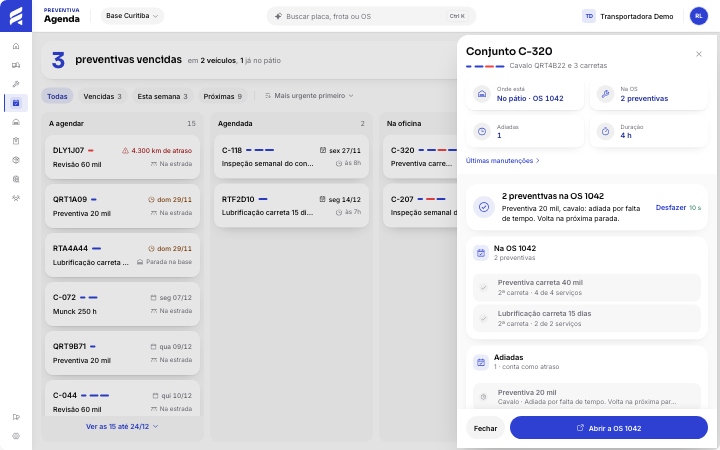
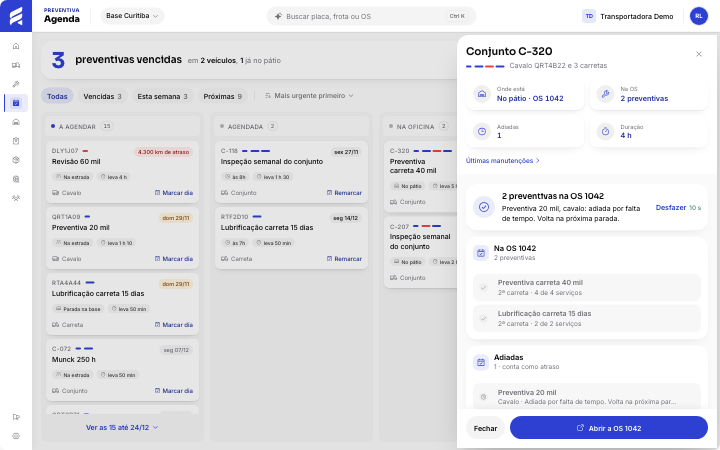
docs(truck): phone blue top gets the dot and composition texture; frame labels match the view

diff --git a/static/mockups/truck/preventiva-agenda/index.html b/static/mockups/truck/preventiva-agenda/index.html
@@ -33,7 +33,7 @@
     <div class="states sg" data-for="phs"><div class="sgr"><span class="sgl">No celular</span><button data-s="ptr" aria-pressed="false" title="Puxar a lista para baixo atualiza a agenda">Puxar para atualizar</button><button data-s="mid" aria-pressed="false" title="Rolando: o cabeçalho da seção fica preso e a aba acompanha">Rolando a lista</button><button data-s="press" aria-pressed="false" title="O cartão responde ao toque">Toque no cartão</button><button data-s="swipe" aria-pressed="false" title="Deslizar o cartão mostra Adiar e Marcar dia">Deslizar o cartão</button></div><div class="sgr"><span class="sgl">Quadro no celular</span><button data-s="list" aria-pressed="false" title="Etapas em abas e colunas que deslizam de lado">Etapas</button><button data-s="kb2" aria-pressed="false" title="Deslizou para Agendada">Deslizou para Agendada</button></div><div class="sgr"><span class="sgl">Caminho principal</span><button data-s="visit" aria-pressed="true" title="Conjunto no pátio aberto: o que fazer agora e a ação">1 Abrir o conjunto</button><button data-s="kitopen" aria-pressed="false" title="Um kit aberto mostra cada peça e a conta por lado">2 Ver as peças</button><button data-s="pick" aria-pressed="false" title="Nada marcado: o botão principal espera a escolha">3 Escolher o que fazer</button><button data-s="done" aria-pressed="false" title="Depois de incluir: o que entrou, o que ficou e desfazer">4 Feito</button></div><div class="sgr"><span class="sgl">Marcar dia</span><button data-s="schedule" aria-pressed="false" title="Veículo na estrada: escolher o dia com espaço na oficina">1 Veículo na estrada</button></div><div class="sgr"><span class="sgl">E se não der</span><button data-s="defer1" aria-pressed="false" title="Uma fica para depois, com motivo e quando lembrar">Adiar uma</button><button data-s="deferall" aria-pressed="false" title="Adiar todas com o mesmo motivo">Adiar todas</button><button data-s="left" aria-pressed="false" title="O conjunto saiu antes de entrar na OS">Conjunto saiu</button><button data-s="closed" aria-pressed="false" title="A OS foi concluída por outra pessoa no meio do caminho">OS fechada por outra pessoa</button><button data-s="sConc" aria-pressed="false" title="Outra pessoa incluiu parte das preventivas agora">Duas pessoas ao mesmo tempo</button><button data-s="sOff" aria-pressed="false" title="Sem sinal: fica na fila e envia depois">Sem sinal</button></div><div class="sgr"><span class="sgl">Estados da tela</span><button data-s="loading" aria-pressed="false" title="Carregando, com o desenho da tela">Carregando</button><button data-s="empty" aria-pressed="false" title="Nada vencendo esta semana">Nada vencendo</button><button data-s="first" aria-pressed="false" title="Ainda sem plano: por onde começar">Primeira vez</button><button data-s="nores" aria-pressed="false" title="A busca não achou, com a dica de outra base">Busca sem resultado</button><button data-s="noperm" aria-pressed="false" title="Sem acesso: a quem pedir">Sem permissão</button><button data-s="error" aria-pressed="false" title="Não atualizou: mostra o que tinha e tenta de novo">Erro</button></div><div class="sgr"><span class="sgl">Outras visões</span><button data-s="pk044" aria-pressed="false" title="Um pacote que inclui outro, um obrigatório, um anual e um por horas de motor">Pacotes variados</button><button data-s="sap" aria-pressed="false" title="Planos do SAP: o que fica no SAP e o que fica aqui">Modo SAP</button></div><div class="sgr"><span class="sgl">Estresse</span><button data-s="sVol" aria-pressed="false" title="Frota grande: 38 vencidas, colunas com página">Frota grande</button><button data-s="sLong" aria-pressed="false" title="Conjuntos longos, nomes longos, números grandes e dados faltando">Textos e números longos</button><button data-s="sBig" aria-pressed="false" title="Um conjunto com 11 preventivas e 37 peças">11 preventivas</button></div></div>
     <div class="themebar"><button data-t="light" aria-pressed="true">Tema claro</button><button data-t="dark" aria-pressed="false">Tema escuro</button></div>
     <div class="devices">
-      <div class="dv"><div class="devlabel">Celular · lista</div><fx-app device="phone" controls="&lt;span class=&quot;pbpill&quot;&gt;Base Curitiba&lt;/span&gt;" section="plan" console eyebrow="Preventiva" title="Agenda"><div data-render="phl" data-device="phone"></div></fx-app></div>
+      <div class="dv"><div class="devlabel">Celular · quadro</div><fx-app device="phone" controls="&lt;span class=&quot;pbpill&quot;&gt;Base Curitiba&lt;/span&gt;" section="plan" console eyebrow="Preventiva" title="Agenda"><div data-render="phl" data-device="phone"></div></fx-app></div>
       <div class="dv"><div class="devlabel">Celular · estado escolhido</div><fx-app device="phone" controls="&lt;span class=&quot;pbpill&quot;&gt;Base Curitiba&lt;/span&gt;" section="plan" console eyebrow="Preventiva" title="Agenda"><div data-render="phs" data-device="phone"></div></fx-app></div>
       <div class="dv"><div class="devlabel">Celular pequeno · 320 px</div><fx-app device="phone" controls="&lt;span class=&quot;pbpill&quot;&gt;Base Curitiba&lt;/span&gt;" section="plan" console eyebrow="Preventiva" title="Agenda" width="320"><div data-render="phs" data-device="phone"></div></fx-app></div>
     </div>
@@ -74,7 +74,7 @@
     <div class="states sg" data-for="cps"><div class="sgr"><span class="sgl">Caminho</span><button data-s="month" aria-pressed="true" title="Agenda por dia">Agenda por dia</button><button data-s="visit" aria-pressed="false" title="Tocou num conjunto">Abrir um conjunto</button></div><div class="sgr"><span class="sgl">Estados da tela</span><button data-s="loading" aria-pressed="false" title="Carregando">Carregando</button><button data-s="empty" aria-pressed="false" title="Nada no mês">Nada no mês</button></div></div>
     <div class="themebar"><button data-t="light" aria-pressed="true">Tema claro</button><button data-t="dark" aria-pressed="false">Tema escuro</button></div>
     <div class="devices">
-      <div class="dv"><div class="devlabel">Celular · agenda</div><fx-app device="phone" controls="&lt;span class=&quot;pbpill&quot;&gt;Base Curitiba&lt;/span&gt;" section="plan" console eyebrow="Preventiva" title="Agenda"><div data-render="cpl" data-device="phone"></div></fx-app></div>
+      <div class="dv"><div class="devlabel">Celular · calendário</div><fx-app device="phone" controls="&lt;span class=&quot;pbpill&quot;&gt;Base Curitiba&lt;/span&gt;" section="plan" console eyebrow="Preventiva" title="Agenda"><div data-render="cpl" data-device="phone"></div></fx-app></div>
       <div class="dv"><div class="devlabel">Celular · estado escolhido</div><fx-app device="phone" controls="&lt;span class=&quot;pbpill&quot;&gt;Base Curitiba&lt;/span&gt;" section="plan" console eyebrow="Preventiva" title="Agenda"><div data-render="cps" data-device="phone"></div></fx-app></div>
     </div>
   </section>

diff --git a/static/mockups/truck/preventiva-agenda/agenda.js b/static/mockups/truck/preventiva-agenda/agenda.js
@@ -755,7 +755,11 @@ function patchNav(){
     if(ctl&&right&&dv!=='web'&&!right.contains(ctl)){right.insertBefore(ctl,right.querySelector('.fx-me'));ctl.classList.add('ctxpill');}
   });
 }
-function lift(){document.querySelectorAll('.fx-device.phone,.fx-device.tablet-p').forEach(d=>{const ov=d.querySelector('.fx-body .sheet-ov');if(ov) d.querySelector('.fx-screen').appendChild(ov);});}
+function texture(){document.querySelectorAll('.fx-device.phone .fx-screen').forEach(sc=>{const has=!!sc.querySelector('.pm');let t=sc.querySelector(':scope>.ptex');
+  if(has&&!t){t=document.createElement('div');t.className='ptex';t.setAttribute('aria-hidden','true');t.innerHTML=motif();sc.prepend(t);}
+  if(!has&&t)t.remove();
+  if(has&&t){const z=parseFloat(getComputedStyle(sc.closest('.fx-device')).zoom)||1;const ph=sc.querySelector('.phead');const nb=sc.querySelector('.fx-navbar');const ref=ph&&ph.offsetHeight>20?ph:nb;if(ref)t.style.height=Math.round((ref.getBoundingClientRect().bottom-sc.getBoundingClientRect().top)/z)+'px';}});}
+function lift(){texture();document.querySelectorAll('.fx-device.phone,.fx-device.tablet-p').forEach(d=>{const ov=d.querySelector('.fx-body .sheet-ov');if(ov) d.querySelector('.fx-screen').appendChild(ov);});}
 function fit(){
   document.querySelectorAll('.devices .fx-device').forEach(d=>{d.style.zoom='';const box=d.closest('.devices');if(!box)return;const avail=box.clientWidth,w=d.offsetWidth;if(w>avail&&avail>0)d.style.zoom=(avail/w).toFixed(4);});
 }

diff --git a/static/mockups/truck/preventiva-agenda/agenda.css b/static/mockups/truck/preventiva-agenda/agenda.css
@@ -1694,3 +1694,13 @@
 .kpc .v2act,.bd.tpv .v2act{background:none}
 .kpc .v2act:active,.bd.tpv .v2act:active{background:hsl(var(--primary)/.08)}
 .kpc .v2act,.bd.tpv .v2act{margin:0;padding:4px 0}
+/* texture on the phone's blue top: fine dots and the composition strokes, fading from the top-right */
+.fx-device.phone .fx-screen{position:relative}
+.ptex{position:absolute;top:0;right:0;width:78%;height:230px;z-index:2;pointer-events:none;overflow:hidden;
+  background-image:radial-gradient(hsl(var(--primary-foreground)/.11) 1px,transparent 1.4px);background-size:12px 12px;
+  -webkit-mask-image:radial-gradient(120% 100% at 100% 0%,#000 0%,transparent 70%);mask-image:radial-gradient(120% 100% at 100% 0%,#000 0%,transparent 70%)}
+.ptex .motif{position:absolute;top:44px;right:-18px;bottom:auto;transform:rotate(-10deg);gap:9px;opacity:1;-webkit-mask-image:none;mask-image:none}
+.ptex .motif i{background:hsl(var(--primary-foreground)/.12)}
+.ptex .motif i.o{background:hsl(var(--primary-foreground)/.06)}
+.dark .ptex{background-image:radial-gradient(hsl(var(--primary-foreground)/.07) 1px,transparent 1.4px)}
+.dark .ptex .motif i{background:hsl(var(--primary-foreground)/.08)}
